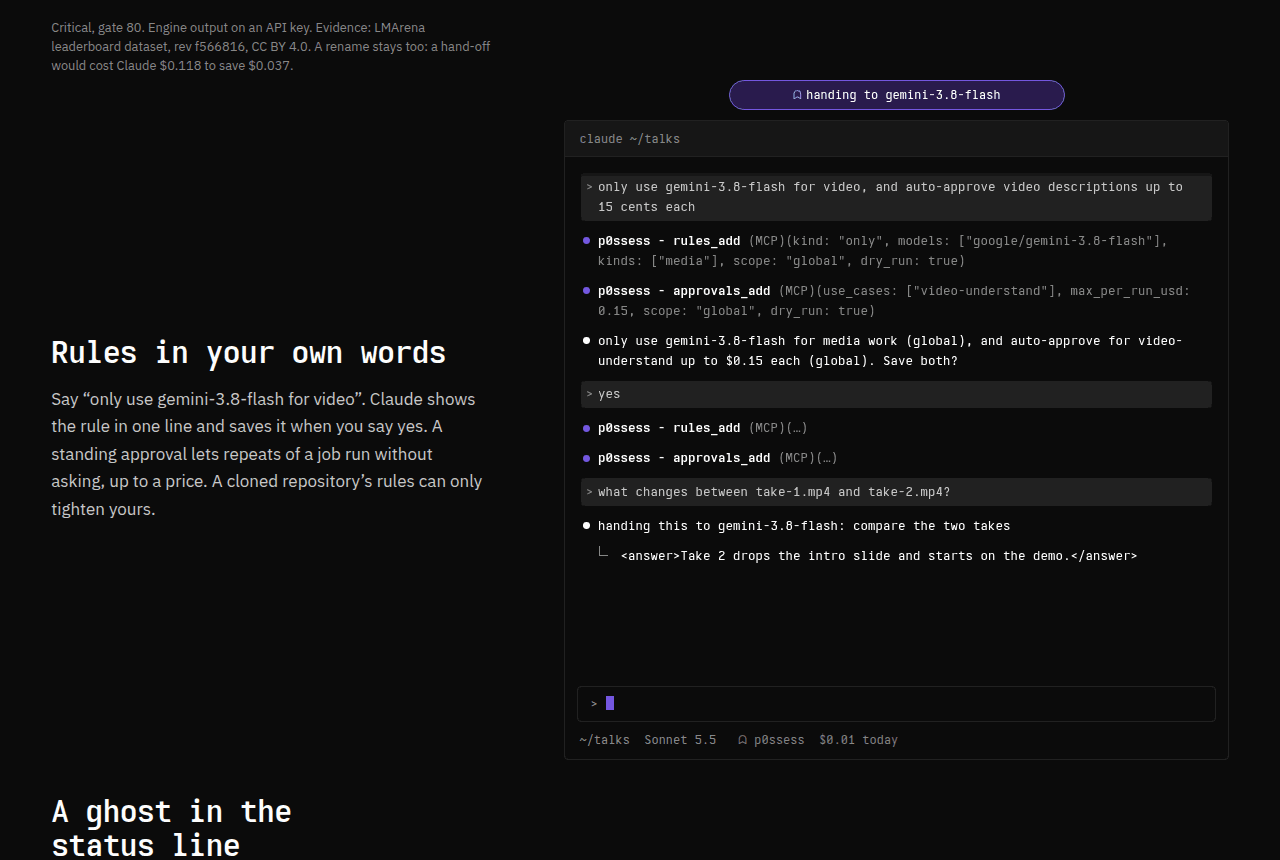
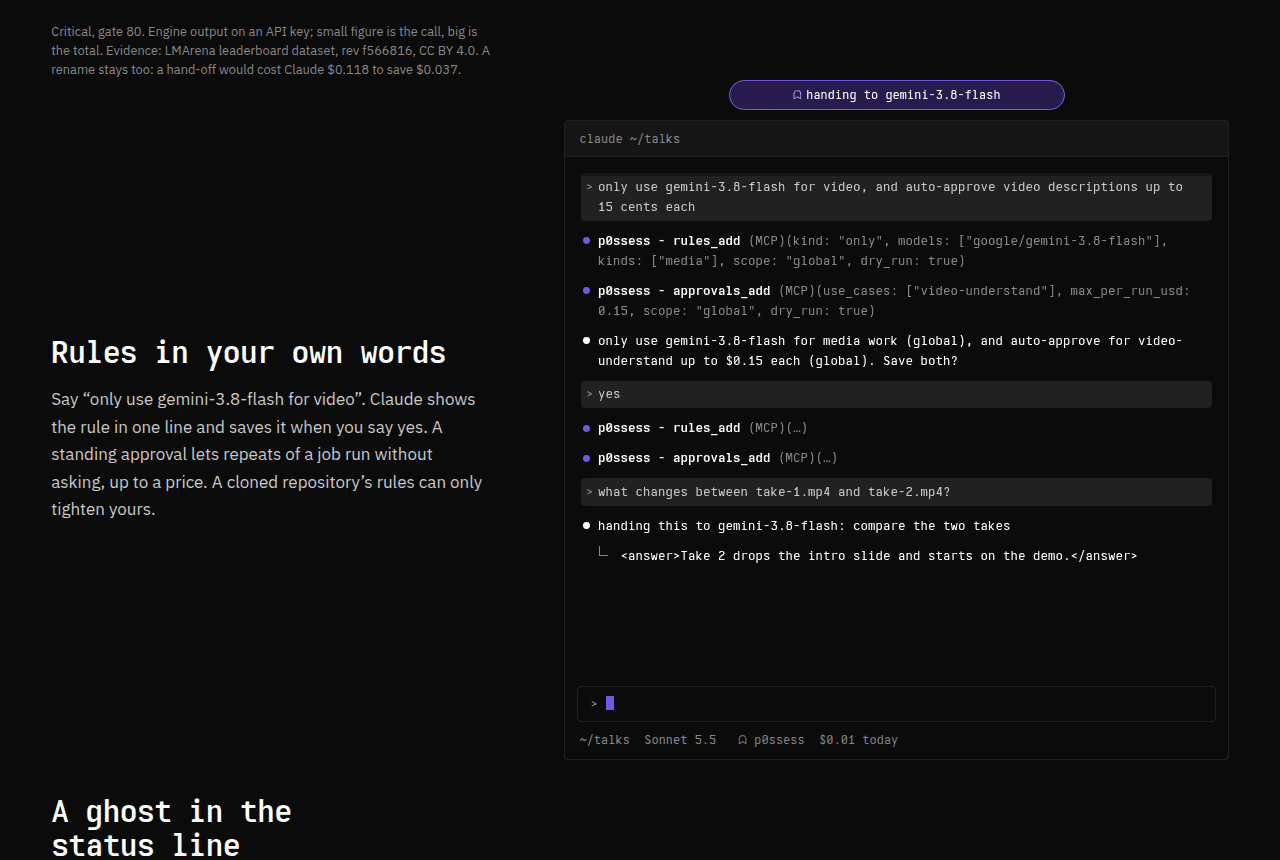
Website: show the call price next to the total in every chart
The charts printed the engine's total while the scenes quote the call's
price. Each row now shows both, the engine section defines the total once,
and Claude's own rows read "in plan".

Changed region(s): [[0.0312, 0.0302, 0.375, 0.0907], [0.0312, 0.5442, 0.375, 0.5744], [0.0312, 0.4837, 0.3438, 0.514]]

diff --git a/site/index.html b/site/index.html
@@ -61,18 +61,19 @@
         <tr><th scope="row">Critical</th><td data-label="For example">Auth, firewalls, production, money</td><td data-label="Gate">80</td><td data-label="A mistake costs">$10</td></tr>
       </tbody>
     </table>
-    <p>Above the gate, the lowest real cost wins: the call’s price, the Claude usage it spends or saves, the hand-off and checking, and the cost of a mistake.</p>
+    <p>Above the gate, the lowest total wins. Total = the call, plus the Claude time it uses or saves, plus the risk of a redo.</p>
     <figure class="gauge" aria-labelledby="gauge-cap">
       <p class="gauge-task">Build a feature from a spec; the tests decide. Important, so the gate is 60.</p>
+      <p class="gauge-def" id="total-def">Small figure: the call’s price. Big figure: the total that decides.</p>
       <div class="axis" aria-hidden="true"><span class="t20">20</span><span class="t35">35</span><span class="t60">60</span><span class="t80">80</span></div>
       <ol class="bars">
-      <li class="pass"><span class="who">Claude Opus 5.5 <small>as an agent</small></span><span class="track" aria-hidden="true"><svg viewBox="0 0 100 10" preserveAspectRatio="none"><rect class="fill" width="82" height="10"/><line class="gate-line" x1="60" x2="60" y1="0" y2="10" vector-effect="non-scaling-stroke"/></svg></span><span class="n">82</span><span class="cost"><small>$</small>1.03</span><span class="sr-only">clears the gate</span></li>
-      <li class="pass"><span class="who">Claude Sonnet 5.5 <small>in your session</small></span><span class="track" aria-hidden="true"><svg viewBox="0 0 100 10" preserveAspectRatio="none"><rect class="fill" width="71" height="10"/><line class="gate-line" x1="60" x2="60" y1="0" y2="10" vector-effect="non-scaling-stroke"/></svg></span><span class="n">71</span><span class="cost"><small>$</small>0.54</span><span class="sr-only">clears the gate</span></li>
-      <li class="pass win"><span class="who">GPT-6.1 Sol</span><span class="track" aria-hidden="true"><svg viewBox="0 0 100 10" preserveAspectRatio="none"><rect class="fill" width="65" height="10"/><line class="gate-line" x1="60" x2="60" y1="0" y2="10" vector-effect="non-scaling-stroke"/></svg></span><span class="n">65</span><span class="cost"><small>$</small>0.51</span><span class="sr-only">clears the gate; lowest real cost, gets the job</span></li>
+      <li class="pass"><span class="who">Claude Opus 5.5 <small>as an agent</small></span><span class="track" aria-hidden="true"><svg viewBox="0 0 100 10" preserveAspectRatio="none"><rect class="fill" width="82" height="10"/><line class="gate-line" x1="60" x2="60" y1="0" y2="10" vector-effect="non-scaling-stroke"/></svg></span><span class="n">82</span><span class="cost"><span class="call">call $0.84</span><span class="tot"><small>$</small>1.03</span></span><span class="sr-only">clears the gate</span></li>
+      <li class="pass"><span class="who">Claude Sonnet 5.5 <small>in your session</small></span><span class="track" aria-hidden="true"><svg viewBox="0 0 100 10" preserveAspectRatio="none"><rect class="fill" width="71" height="10"/><line class="gate-line" x1="60" x2="60" y1="0" y2="10" vector-effect="non-scaling-stroke"/></svg></span><span class="n">71</span><span class="cost"><span class="call">in plan</span><span class="tot"><small>$</small>0.54</span></span><span class="sr-only">clears the gate</span></li>
+      <li class="pass win"><span class="who">GPT-6.1 Sol</span><span class="track" aria-hidden="true"><svg viewBox="0 0 100 10" preserveAspectRatio="none"><rect class="fill" width="65" height="10"/><line class="gate-line" x1="60" x2="60" y1="0" y2="10" vector-effect="non-scaling-stroke"/></svg></span><span class="n">65</span><span class="cost"><span class="call">call $0.21</span><span class="tot"><small>$</small>0.51</span></span><span class="sr-only">clears the gate; lowest total, gets the job</span></li>
       <li class="fail"><span class="who">DeepSeek V4.1 Flash</span><span class="track" aria-hidden="true"><svg viewBox="0 0 100 10" preserveAspectRatio="none"><rect class="fill" width="40" height="10"/><line class="gate-line" x1="60" x2="60" y1="0" y2="10" vector-effect="non-scaling-stroke"/></svg></span><span class="n">40</span><span class="cost">below the gate</span><span class="sr-only">below the gate</span></li>
       <li class="fail"><span class="who">GLM-5.3-Flash</span><span class="track" aria-hidden="true"><svg viewBox="0 0 100 10" preserveAspectRatio="none"><rect class="fill" width="35" height="10"/><line class="gate-line" x1="60" x2="60" y1="0" y2="10" vector-effect="non-scaling-stroke"/></svg></span><span class="n">35</span><span class="cost">below the gate</span><span class="sr-only">below the gate</span></li>
       </ol>
-      <figcaption id="gauge-cap">Engine output on an API key. Scores use the cautious end of each estimate. Sol wins and Claude reviews its diff; on a subscription early in a window, Claude keeps the job. Evidence: LMArena agent board, rev f566816, CC BY 4.0.</figcaption>
+      <figcaption id="gauge-cap">Engine output on an API key; small figure is the call, big is the total. Scores use the cautious end of each estimate. Sol wins and Claude reviews its diff; on a subscription early in a window, Claude keeps the job. Evidence: LMArena agent board, rev f566816, CC BY 4.0.</figcaption>
     </figure>
   </div>
   <details class="scene-wrap"><summary>Show the session</summary>
@@ -99,12 +100,12 @@
     <p>Claude can’t watch video or hear audio, so p0ssess sends the file to a model that can. On real calls, Gemini 3.8 Flash described a ten-second clip for $0.0067 and Whisper transcribed sixteen seconds of speech for $0.0002.</p>
     <figure class="cmp" aria-labelledby="cmp-media">
       <ol class="bars mini">
-      <li class="pass win"><span class="who">GLM-5.3-Flash</span><span class="track" aria-hidden="true"><svg viewBox="0 0 100 10" preserveAspectRatio="none"><rect class="fill" width="67" height="10"/><line class="gate-line" x1="20" x2="20" y1="0" y2="10" vector-effect="non-scaling-stroke"/></svg></span><span class="n">67</span><span class="cost"><small>$</small>0.091</span><span class="sr-only">clears the gate; lowest real cost</span></li>
-      <li class="pass"><span class="who">Gemini 3.8 Flash</span><span class="track" aria-hidden="true"><svg viewBox="0 0 100 10" preserveAspectRatio="none"><rect class="fill" width="70" height="10"/><line class="gate-line" x1="20" x2="20" y1="0" y2="10" vector-effect="non-scaling-stroke"/></svg></span><span class="n">70</span><span class="cost"><small>$</small>0.095</span><span class="sr-only">clears the gate</span></li>
-      <li class="pass"><span class="who">Gemma 4 26B</span><span class="track" aria-hidden="true"><svg viewBox="0 0 100 10" preserveAspectRatio="none"><rect class="fill" width="55" height="10"/><line class="gate-line" x1="20" x2="20" y1="0" y2="10" vector-effect="non-scaling-stroke"/></svg></span><span class="n">55</span><span class="cost"><small>$</small>0.095</span><span class="sr-only">clears the gate</span></li>
+      <li class="pass win"><span class="who">GLM-5.3-Flash</span><span class="track" aria-hidden="true"><svg viewBox="0 0 100 10" preserveAspectRatio="none"><rect class="fill" width="67" height="10"/><line class="gate-line" x1="20" x2="20" y1="0" y2="10" vector-effect="non-scaling-stroke"/></svg></span><span class="n">67</span><span class="cost"><span class="call">call $0.0003</span><span class="tot"><small>$</small>0.091</span></span><span class="sr-only">clears the gate; lowest real cost</span></li>
+      <li class="pass"><span class="who">Gemini 3.8 Flash</span><span class="track" aria-hidden="true"><svg viewBox="0 0 100 10" preserveAspectRatio="none"><rect class="fill" width="70" height="10"/><line class="gate-line" x1="20" x2="20" y1="0" y2="10" vector-effect="non-scaling-stroke"/></svg></span><span class="n">70</span><span class="cost"><span class="call">call $0.0051</span><span class="tot"><small>$</small>0.095</span></span><span class="sr-only">clears the gate</span></li>
+      <li class="pass"><span class="who">Gemma 4 26B</span><span class="track" aria-hidden="true"><svg viewBox="0 0 100 10" preserveAspectRatio="none"><rect class="fill" width="55" height="10"/><line class="gate-line" x1="20" x2="20" y1="0" y2="10" vector-effect="non-scaling-stroke"/></svg></span><span class="n">55</span><span class="cost"><span class="call">call $0.0002</span><span class="tot"><small>$</small>0.095</span></span><span class="sr-only">clears the gate</span></li>
       <li class="none"><span class="who">Claude</span><span class="track" aria-hidden="true"><svg viewBox="0 0 100 10" preserveAspectRatio="none"><line class="gate-line" x1="20" x2="20" y1="0" y2="10" vector-effect="non-scaling-stroke"/></svg></span><span class="n">–</span><span class="cost">can’t watch</span><span class="sr-only">cannot take video</span></li>
       </ol>
-      <figcaption id="cmp-media">Trivial, gate 20. Engine output on an API key. No video benchmark exists, so scores are catalog priors. GLM wins on price before any history; the scene names Gemini.</figcaption>
+      <figcaption id="cmp-media">Trivial, gate 20. Engine output on an API key; small figure is the call, big is the total. No video benchmark exists, so scores are catalog priors. GLM wins on price before any history; the scene names Gemini.</figcaption>
     </figure>
   </div>
   <details class="scene-wrap"><summary>Show the session</summary>
@@ -129,12 +130,12 @@
     <p>For chores the tests can check, a relay agent runs a cheap coding model in its own sandbox, on a separate git worktree. Claude reads the diff and runs the tests before anything lands. Work that edits your code always asks first.</p>
     <figure class="cmp" aria-labelledby="cmp-chores">
       <ol class="bars mini">
-      <li class="pass win"><span class="who">DeepSeek V4.1 Flash</span><span class="track" aria-hidden="true"><svg viewBox="0 0 100 10" preserveAspectRatio="none"><rect class="fill" width="78" height="10"/><line class="gate-line" x1="35" x2="35" y1="0" y2="10" vector-effect="non-scaling-stroke"/></svg></span><span class="n">78</span><span class="cost"><small>$</small>0.148</span><span class="sr-only">clears the gate; lowest real cost</span></li>
-      <li class="pass"><span class="who">Claude Haiku 5.5 <small>subagent</small></span><span class="track" aria-hidden="true"><svg viewBox="0 0 100 10" preserveAspectRatio="none"><rect class="fill" width="73" height="10"/><line class="gate-line" x1="35" x2="35" y1="0" y2="10" vector-effect="non-scaling-stroke"/></svg></span><span class="n">73</span><span class="cost"><small>$</small>0.169</span><span class="sr-only">clears the gate</span></li>
-      <li class="pass"><span class="who">Claude <small>in session</small></span><span class="track" aria-hidden="true"><svg viewBox="0 0 100 10" preserveAspectRatio="none"><rect class="fill" width="78" height="10"/><line class="gate-line" x1="35" x2="35" y1="0" y2="10" vector-effect="non-scaling-stroke"/></svg></span><span class="n">78</span><span class="cost"><small>$</small>0.227</span><span class="sr-only">clears the gate</span></li>
-      <li class="pass"><span class="who">GPT-6.1 Sol</span><span class="track" aria-hidden="true"><svg viewBox="0 0 100 10" preserveAspectRatio="none"><rect class="fill" width="83" height="10"/><line class="gate-line" x1="35" x2="35" y1="0" y2="10" vector-effect="non-scaling-stroke"/></svg></span><span class="n">83</span><span class="cost"><small>$</small>0.241</span><span class="sr-only">clears the gate</span></li>
+      <li class="pass win"><span class="who">DeepSeek V4.1 Flash</span><span class="track" aria-hidden="true"><svg viewBox="0 0 100 10" preserveAspectRatio="none"><rect class="fill" width="78" height="10"/><line class="gate-line" x1="35" x2="35" y1="0" y2="10" vector-effect="non-scaling-stroke"/></svg></span><span class="n">78</span><span class="cost"><span class="call">call $0.0041</span><span class="tot"><small>$</small>0.148</span></span><span class="sr-only">clears the gate; lowest real cost</span></li>
+      <li class="pass"><span class="who">Claude Haiku 5.5 <small>subagent</small></span><span class="track" aria-hidden="true"><svg viewBox="0 0 100 10" preserveAspectRatio="none"><rect class="fill" width="73" height="10"/><line class="gate-line" x1="35" x2="35" y1="0" y2="10" vector-effect="non-scaling-stroke"/></svg></span><span class="n">73</span><span class="cost"><span class="call">in plan</span><span class="tot"><small>$</small>0.169</span></span><span class="sr-only">clears the gate</span></li>
+      <li class="pass"><span class="who">Claude <small>in session</small></span><span class="track" aria-hidden="true"><svg viewBox="0 0 100 10" preserveAspectRatio="none"><rect class="fill" width="78" height="10"/><line class="gate-line" x1="35" x2="35" y1="0" y2="10" vector-effect="non-scaling-stroke"/></svg></span><span class="n">78</span><span class="cost"><span class="call">in plan</span><span class="tot"><small>$</small>0.227</span></span><span class="sr-only">clears the gate</span></li>
+      <li class="pass"><span class="who">GPT-6.1 Sol</span><span class="track" aria-hidden="true"><svg viewBox="0 0 100 10" preserveAspectRatio="none"><rect class="fill" width="83" height="10"/><line class="gate-line" x1="35" x2="35" y1="0" y2="10" vector-effect="non-scaling-stroke"/></svg></span><span class="n">83</span><span class="cost"><span class="call">call $0.11</span><span class="tot"><small>$</small>0.241</span></span><span class="sr-only">clears the gate</span></li>
       </ol>
-      <figcaption id="cmp-chores">Routine, gate 35. Engine output on an API key. Evidence: LMArena leaderboard dataset, rev f566816, CC BY 4.0.</figcaption>
+      <figcaption id="cmp-chores">Routine, gate 35. Engine output on an API key; small figure is the call, big is the total. Evidence: LMArena leaderboard dataset, rev f566816, CC BY 4.0.</figcaption>
     </figure>
   </div>
   <details class="scene-wrap"><summary>Show the session</summary>
@@ -164,12 +165,12 @@
     <p>Before a merge, ask for a review from outside Claude’s family. Claude checks each finding against the code and fixes what holds up.</p>
     <figure class="cmp" aria-labelledby="cmp-review">
       <ol class="bars mini">
-      <li class="pass win"><span class="who">GLM-5.3-Flash</span><span class="track" aria-hidden="true"><svg viewBox="0 0 100 10" preserveAspectRatio="none"><rect class="fill" width="84" height="10"/><line class="gate-line" x1="35" x2="35" y1="0" y2="10" vector-effect="non-scaling-stroke"/></svg></span><span class="n">84</span><span class="cost"><small>$</small>0.108</span><span class="sr-only">clears the gate; lowest real cost</span></li>
-      <li class="pass"><span class="who">DeepSeek V4.1 Flash</span><span class="track" aria-hidden="true"><svg viewBox="0 0 100 10" preserveAspectRatio="none"><rect class="fill" width="83" height="10"/><line class="gate-line" x1="35" x2="35" y1="0" y2="10" vector-effect="non-scaling-stroke"/></svg></span><span class="n">83</span><span class="cost"><small>$</small>0.110</span><span class="sr-only">clears the gate</span></li>
-      <li class="pass"><span class="who">Claude <small>in session</small></span><span class="track" aria-hidden="true"><svg viewBox="0 0 100 10" preserveAspectRatio="none"><rect class="fill" width="82" height="10"/><line class="gate-line" x1="35" x2="35" y1="0" y2="10" vector-effect="non-scaling-stroke"/></svg></span><span class="n">82</span><span class="cost"><small>$</small>0.146</span><span class="sr-only">clears the gate</span></li>
-      <li class="pass"><span class="who">GPT-6.1 Sol</span><span class="track" aria-hidden="true"><svg viewBox="0 0 100 10" preserveAspectRatio="none"><rect class="fill" width="87" height="10"/><line class="gate-line" x1="35" x2="35" y1="0" y2="10" vector-effect="non-scaling-stroke"/></svg></span><span class="n">87</span><span class="cost"><small>$</small>0.195</span><span class="sr-only">clears the gate</span></li>
+      <li class="pass win"><span class="who">GLM-5.3-Flash</span><span class="track" aria-hidden="true"><svg viewBox="0 0 100 10" preserveAspectRatio="none"><rect class="fill" width="84" height="10"/><line class="gate-line" x1="35" x2="35" y1="0" y2="10" vector-effect="non-scaling-stroke"/></svg></span><span class="n">84</span><span class="cost"><span class="call">call $0.0021</span><span class="tot"><small>$</small>0.108</span></span><span class="sr-only">clears the gate; lowest real cost</span></li>
+      <li class="pass"><span class="who">DeepSeek V4.1 Flash</span><span class="track" aria-hidden="true"><svg viewBox="0 0 100 10" preserveAspectRatio="none"><rect class="fill" width="83" height="10"/><line class="gate-line" x1="35" x2="35" y1="0" y2="10" vector-effect="non-scaling-stroke"/></svg></span><span class="n">83</span><span class="cost"><span class="call">call $0.0032</span><span class="tot"><small>$</small>0.110</span></span><span class="sr-only">clears the gate</span></li>
+      <li class="pass"><span class="who">Claude <small>in session</small></span><span class="track" aria-hidden="true"><svg viewBox="0 0 100 10" preserveAspectRatio="none"><rect class="fill" width="82" height="10"/><line class="gate-line" x1="35" x2="35" y1="0" y2="10" vector-effect="non-scaling-stroke"/></svg></span><span class="n">82</span><span class="cost"><span class="call">in plan</span><span class="tot"><small>$</small>0.146</span></span><span class="sr-only">clears the gate</span></li>
+      <li class="pass"><span class="who">GPT-6.1 Sol</span><span class="track" aria-hidden="true"><svg viewBox="0 0 100 10" preserveAspectRatio="none"><rect class="fill" width="87" height="10"/><line class="gate-line" x1="35" x2="35" y1="0" y2="10" vector-effect="non-scaling-stroke"/></svg></span><span class="n">87</span><span class="cost"><span class="call">call $0.095</span><span class="tot"><small>$</small>0.195</span></span><span class="sr-only">clears the gate</span></li>
       </ol>
-      <figcaption id="cmp-review">Routine, gate 35. Engine output on an API key. Evidence: LMArena leaderboard dataset, rev f566816, CC BY 4.0.</figcaption>
+      <figcaption id="cmp-review">Routine, gate 35. Engine output on an API key; small figure is the call, big is the total. Evidence: LMArena leaderboard dataset, rev f566816, CC BY 4.0.</figcaption>
     </figure>
   </div>
   <details class="scene-wrap"><summary>Show the session</summary>
@@ -198,15 +199,15 @@
     <figure class="cmp" aria-labelledby="cmp-usage">
       <p class="cmp-label">Early: 5-hour window 5% used, projected 17%</p>
       <ol class="bars mini">
-        <li class="pass win"><span class="who">Claude <small>in session</small></span><span class="track" aria-hidden="true"><svg viewBox="0 0 100 10" preserveAspectRatio="none"><rect class="fill" width="71" height="10"/><line class="gate-line" x1="60" x2="60" y1="0" y2="10" vector-effect="non-scaling-stroke"/></svg></span><span class="n">71</span><span class="cost"><small>$</small>0.346</span><span class="sr-only">clears the gate; lowest real cost</span></li>
-        <li class="pass"><span class="who">GPT-6.1 Sol</span><span class="track" aria-hidden="true"><svg viewBox="0 0 100 10" preserveAspectRatio="none"><rect class="fill" width="65" height="10"/><line class="gate-line" x1="60" x2="60" y1="0" y2="10" vector-effect="non-scaling-stroke"/></svg></span><span class="n">65</span><span class="cost"><small>$</small>0.893</span><span class="sr-only">clears the gate</span></li>
+        <li class="pass win"><span class="who">Claude <small>in session</small></span><span class="track" aria-hidden="true"><svg viewBox="0 0 100 10" preserveAspectRatio="none"><rect class="fill" width="71" height="10"/><line class="gate-line" x1="60" x2="60" y1="0" y2="10" vector-effect="non-scaling-stroke"/></svg></span><span class="n">71</span><span class="cost"><span class="call">in plan</span><span class="tot"><small>$</small>0.346</span></span><span class="sr-only">clears the gate; lowest real cost</span></li>
+        <li class="pass"><span class="who">GPT-6.1 Sol</span><span class="track" aria-hidden="true"><svg viewBox="0 0 100 10" preserveAspectRatio="none"><rect class="fill" width="65" height="10"/><line class="gate-line" x1="60" x2="60" y1="0" y2="10" vector-effect="non-scaling-stroke"/></svg></span><span class="n">65</span><span class="cost"><span class="call">call $0.74</span><span class="tot"><small>$</small>0.893</span></span><span class="sr-only">clears the gate</span></li>
       </ol>
       <p class="cmp-label">Late: 78% used, projected 89%</p>
       <ol class="bars mini">
-        <li class="pass win"><span class="who">GPT-6.1 Sol</span><span class="track" aria-hidden="true"><svg viewBox="0 0 100 10" preserveAspectRatio="none"><rect class="fill" width="65" height="10"/><line class="gate-line" x1="60" x2="60" y1="0" y2="10" vector-effect="non-scaling-stroke"/></svg></span><span class="n">65</span><span class="cost"><small>$</small>1.241</span><span class="sr-only">clears the gate; lowest real cost</span></li>
-        <li class="pass"><span class="who">Claude <small>in session</small></span><span class="track" aria-hidden="true"><svg viewBox="0 0 100 10" preserveAspectRatio="none"><rect class="fill" width="71" height="10"/><line class="gate-line" x1="60" x2="60" y1="0" y2="10" vector-effect="non-scaling-stroke"/></svg></span><span class="n">71</span><span class="cost"><small>$</small>1.457</span><span class="sr-only">clears the gate</span></li>
+        <li class="pass win"><span class="who">GPT-6.1 Sol</span><span class="track" aria-hidden="true"><svg viewBox="0 0 100 10" preserveAspectRatio="none"><rect class="fill" width="65" height="10"/><line class="gate-line" x1="60" x2="60" y1="0" y2="10" vector-effect="non-scaling-stroke"/></svg></span><span class="n">65</span><span class="cost"><span class="call">call $0.74</span><span class="tot"><small>$</small>1.241</span></span><span class="sr-only">clears the gate; lowest real cost</span></li>
+        <li class="pass"><span class="who">Claude <small>in session</small></span><span class="track" aria-hidden="true"><svg viewBox="0 0 100 10" preserveAspectRatio="none"><rect class="fill" width="71" height="10"/><line class="gate-line" x1="60" x2="60" y1="0" y2="10" vector-effect="non-scaling-stroke"/></svg></span><span class="n">71</span><span class="cost"><span class="call">in plan</span><span class="tot"><small>$</small>1.457</span></span><span class="sr-only">clears the gate</span></li>
       </ol>
-      <figcaption id="cmp-usage">Important, gate 60. Engine output for example readings. Claude’s time counts at 0.17 of list price early, 0.82 late. Evidence: LMArena agent board, rev f566816, CC BY 4.0.</figcaption>
+      <figcaption id="cmp-usage">Important, gate 60. Engine output for example readings; small figure is the call, big is the total. Claude’s time counts at 0.17 of list price early, 0.82 late. Evidence: LMArena agent board, rev f566816, CC BY 4.0.</figcaption>
     </figure>
   </div>
   <details class="scene-wrap"><summary>Show the session</summary>
@@ -235,11 +236,11 @@
     <p>For critical work the gate decides before price does, and the tools enforce it. Small work stays without a word. If a rating looks wrong, say so.</p>
     <figure class="cmp" aria-labelledby="cmp-stakes">
       <ol class="bars mini">
-      <li class="pass win"><span class="who">Claude <small>in session</small></span><span class="track" aria-hidden="true"><svg viewBox="0 0 100 10" preserveAspectRatio="none"><rect class="fill" width="82" height="10"/><line class="gate-line" x1="80" x2="80" y1="0" y2="10" vector-effect="non-scaling-stroke"/></svg></span><span class="n">82</span><span class="cost"><small>$</small>0.354</span><span class="sr-only">clears the gate; keeps the work</span></li>
+      <li class="pass win"><span class="who">Claude <small>in session</small></span><span class="track" aria-hidden="true"><svg viewBox="0 0 100 10" preserveAspectRatio="none"><rect class="fill" width="82" height="10"/><line class="gate-line" x1="80" x2="80" y1="0" y2="10" vector-effect="non-scaling-stroke"/></svg></span><span class="n">82</span><span class="cost"><span class="call">in plan</span><span class="tot"><small>$</small>0.354</span></span><span class="sr-only">clears the gate; keeps the work</span></li>
       <li class="fail"><span class="who">Claude Haiku 5.5 <small>subagent</small></span><span class="track" aria-hidden="true"><svg viewBox="0 0 100 10" preserveAspectRatio="none"><rect class="fill" width="77" height="10"/><line class="gate-line" x1="80" x2="80" y1="0" y2="10" vector-effect="non-scaling-stroke"/></svg></span><span class="n">77</span><span class="cost">below gate</span><span class="sr-only">below the gate</span></li>
       <li class="none"><span class="who">GPT-6.1 Sol</span><span class="track" aria-hidden="true"><svg viewBox="0 0 100 10" preserveAspectRatio="none"><line class="gate-line" x1="80" x2="80" y1="0" y2="10" vector-effect="non-scaling-stroke"/></svg></span><span class="n">–</span><span class="cost">needs a rule</span><span class="sr-only">not considered: critical work needs a rule naming the model</span></li>
       </ol>
-      <figcaption id="cmp-stakes">Critical, gate 80. Engine output on an API key. Evidence: LMArena leaderboard dataset, rev f566816, CC BY 4.0. A rename stays too: a hand-off would cost Claude $0.118 to save $0.037.</figcaption>
+      <figcaption id="cmp-stakes">Critical, gate 80. Engine output on an API key; small figure is the call, big is the total. Evidence: LMArena leaderboard dataset, rev f566816, CC BY 4.0. A rename stays too: a hand-off would cost Claude $0.118 to save $0.037.</figcaption>
     </figure>
   </div>
   <details class="scene-wrap"><summary>Show the session</summary>

diff --git a/site/style.css b/site/style.css
@@ -163,13 +163,16 @@ td { color: var(--ink-body); }
 .bars .cost { color: var(--ink-body); font-size: 0.95rem; }
 .bars .cost small, .bars .n small { font-size: 0.72em; font-weight: 400; color: var(--ink-2); margin-right: 0.08em; }
 .bars .win .cost { color: var(--ink); }
+.bars .cost .call { font: 400 0.72rem/1.2 var(--mono); letter-spacing: 0; color: var(--ink-2); margin-right: 0.7ch; }
+.bars.mini .cost .call { display: block; margin: 0 0 1px; }
+.gauge-def { font-size: 0.86rem; color: var(--ink-2) !important; margin-top: 0.4rem !important; }
 .bars .fail .who, .bars .fail .n, .bars .fail .cost,
 .bars .none .who, .bars .none .n, .bars .none .cost { color: var(--ink-2); font-weight: 400; }
 .bars .fail .cost, .bars .none .cost { font-family: var(--sans); font-size: 0.86rem; letter-spacing: 0; }
 .gauge figcaption, .cmp figcaption { margin-top: 0.7rem; font-size: 0.8rem; line-height: 1.5; color: var(--ink-2); }
 
 /* Compact comparisons: one line per model. */
-.bars.mini li { grid-template-columns: 9.2rem minmax(0, 1fr) 2rem 5.6rem; column-gap: 0.7rem; padding: 0.3rem 0; row-gap: 0; font-size: 0.88rem; }
+.bars.mini li { grid-template-columns: 9.2rem minmax(0, 1fr) 2rem 5.8rem; column-gap: 0.7rem; padding: 0.3rem 0; row-gap: 0; font-size: 0.88rem; }
 .bars.mini .who, .bars.mini .track, .bars.mini .n, .bars.mini .cost { grid-row: 1; grid-column: auto; justify-self: stretch; }
 .bars.mini .who small { display: block; margin: 0; font-size: 0.76rem; line-height: 1.2; }
 .bars.mini .track { height: 8px; }
